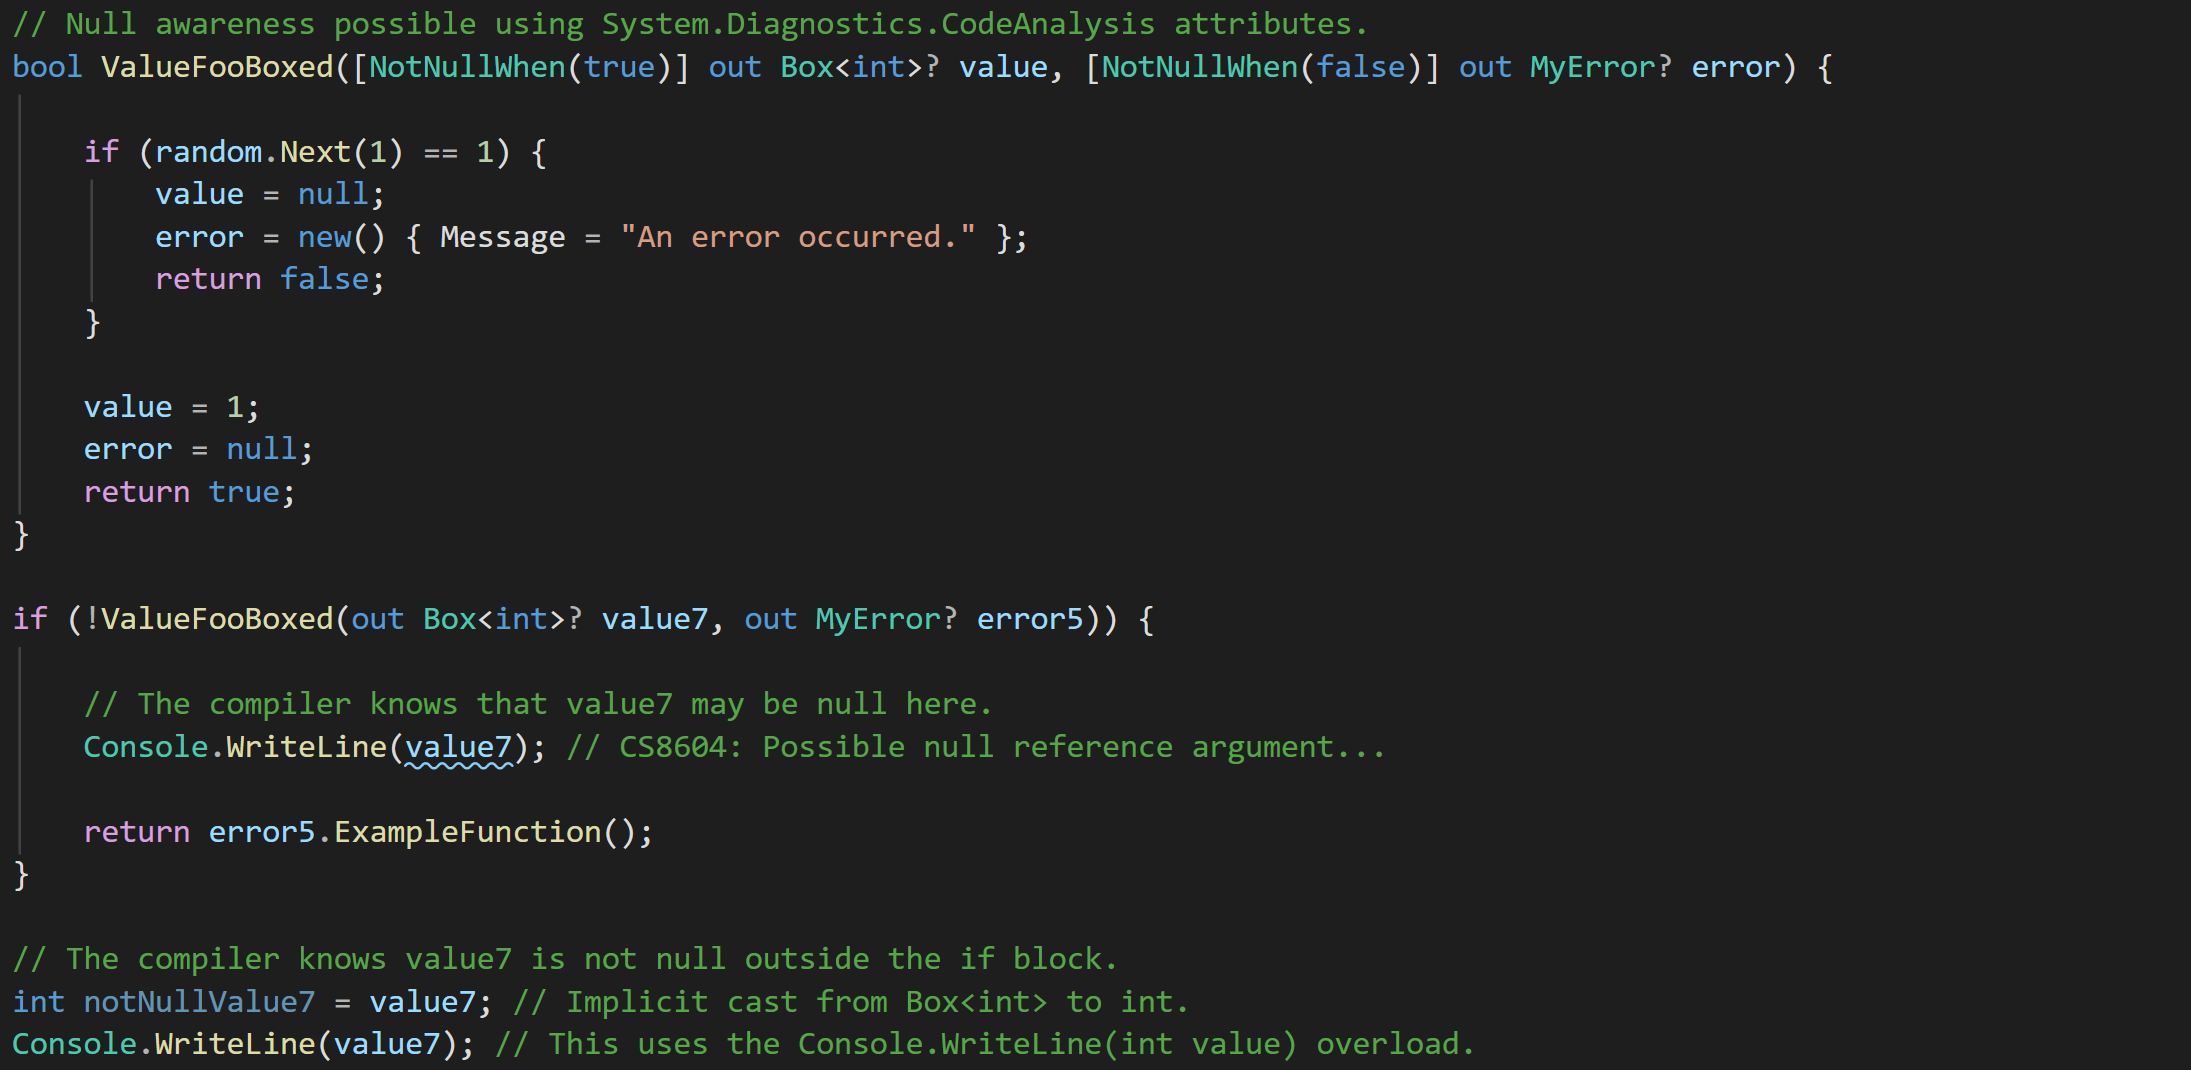
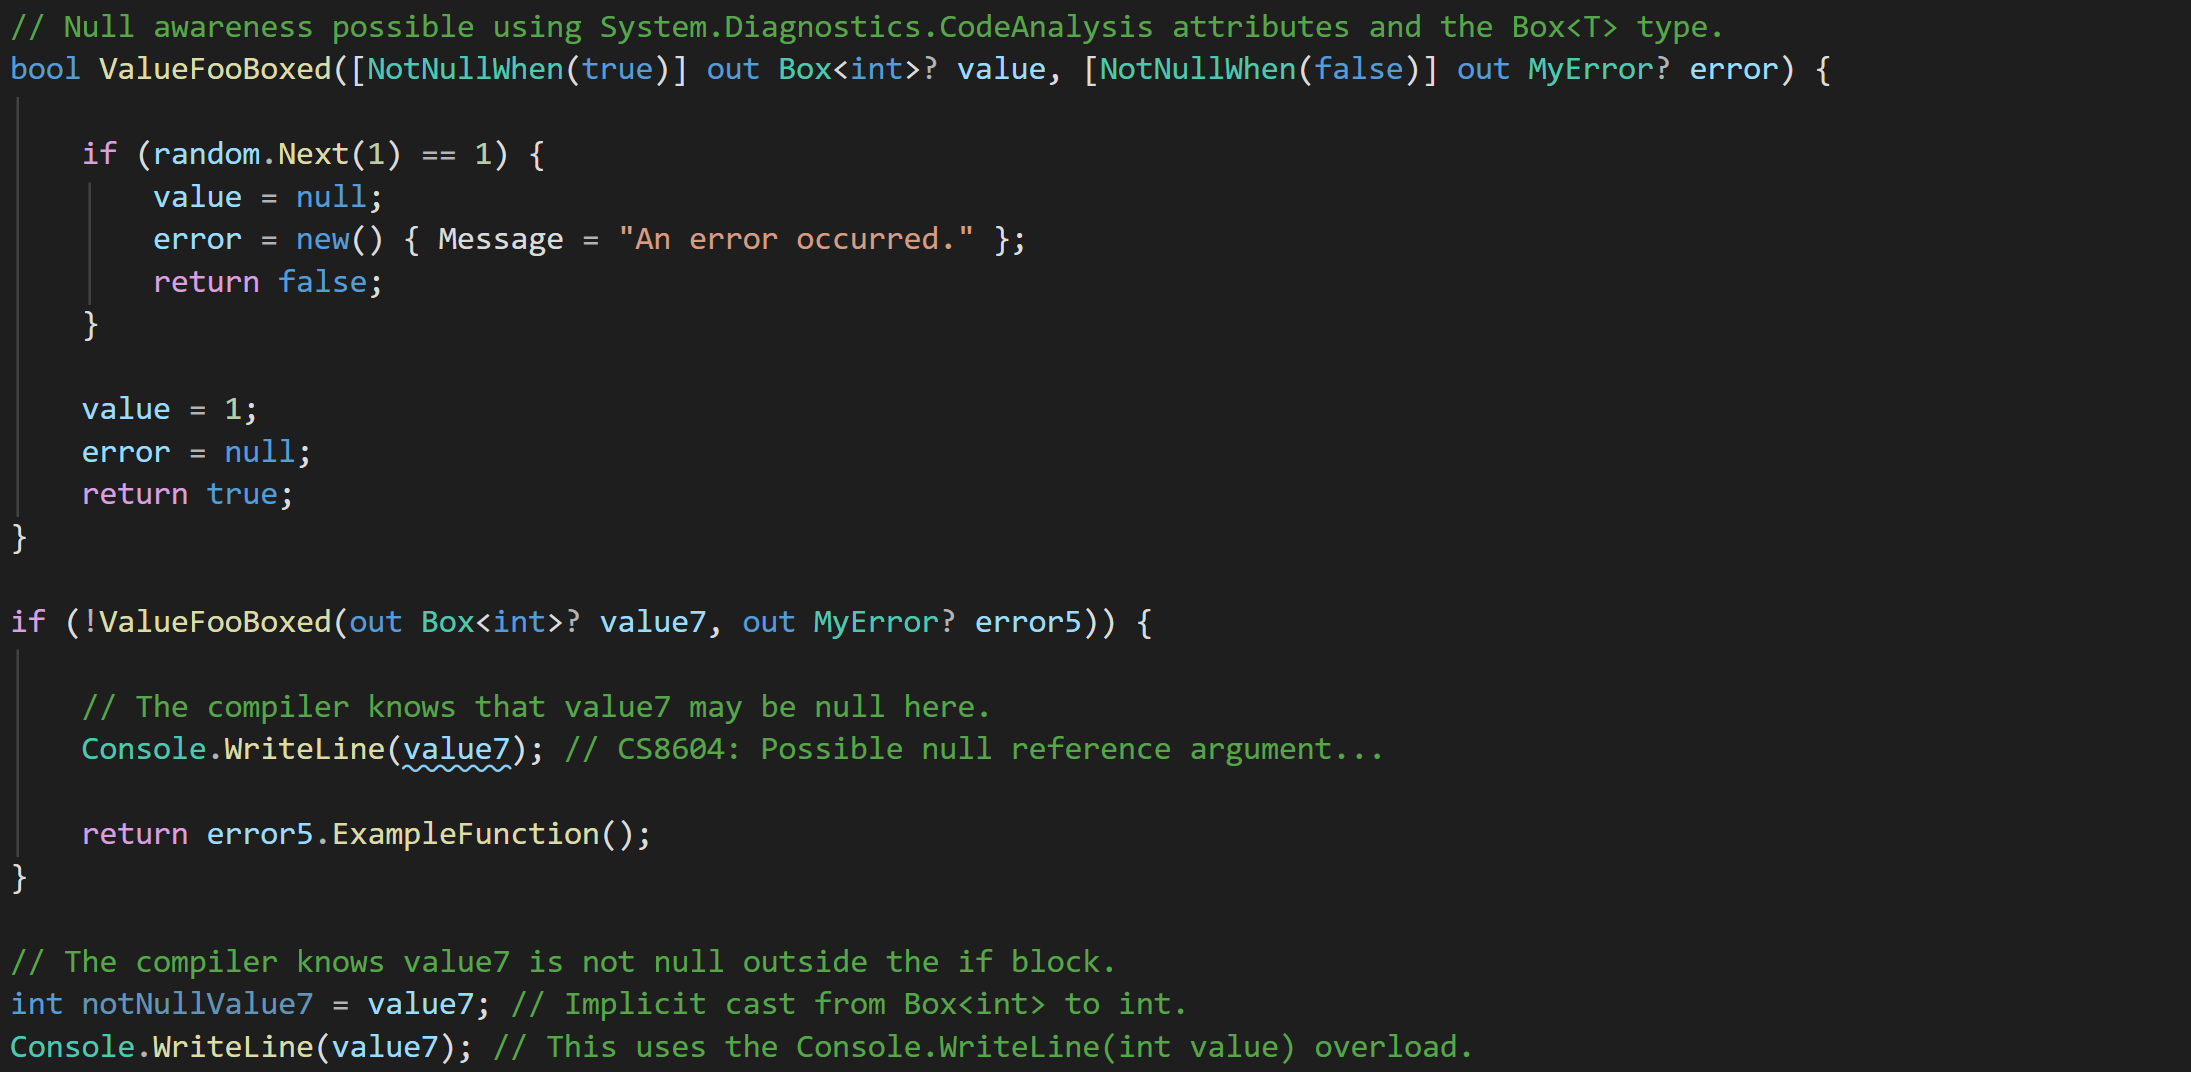
readme and example changes

diff --git a/AsyncTryResult/Examples/Program.cs b/AsyncTryResult/Examples/Program.cs
@@ -183,7 +183,7 @@ Console.WriteLine(result6.Value); // Box<int> is implicitly cast to int.
 //    Synchronous example with boxed value types.                             //
 ////////////////////////////////////////////////////////////////////////////////
 
-// Null awareness possible using System.Diagnostics.CodeAnalysis attributes.
+// Null awareness possible using System.Diagnostics.CodeAnalysis attributes and the Box<T> type.
 bool ValueFooBoxed([NotNullWhen(true)] out Box<int>? value, [NotNullWhen(false)] out MyError? error) {
 
 	if (random.Next(1) == 1) {

diff --git a/README.md b/README.md
@@ -2,21 +2,21 @@
 A lightweight library providing out-variable-like functionality for async methods in C#.
 
 
-## Built-in Functionality and Basic Example
+## Built-in Functionality and Example
 
-Using the `[NotNullWhen]` attribute from `System.Diagnostics.CodeAnalysis` it is possible to inform the compiler that out parameters of a method you define will not be null depending on the return value. This is shown below.
+Using the `[NotNullWhen]` attribute from `System.Diagnostics.CodeAnalysis` it is possible to inform the compiler that the out parameters of a method will not be null depending on the return value. This is shown below.
 
 ![An example of what is already possible in C# using the NotNullWhen attribute from System.Diagnostics.CodeAnalysis](ReadMeImages/image-1.png)
 
-Unfortunately, this is not possible for asynchronous methods because out parameters on async methods are not supported in C#. This library provides the `AsyncTryResult<TValue, TError>` (and several other similar ones) to fill this gap. Using these types you can write concise error handling code that is null-checked by the compiler.
+Unfortunately, this is not possible for asynchronous methods because out parameters on async methods are not supported in C#. This library provides the `AsyncTryResult<TValue, TError>` and `AsyncTryValueResult<TValue, TError>` to fill this gap. Using these types you can write concise error handling code that is null-checked by the compiler.
 
-![An example of how the AsyncTryResult<TValue, TError> can provide similar functionality to asynchronous methods.](ReadMeImages/image-2.png)
+![An example of how the AsyncTryResult<TValue, TError> can provide similar functionality for asynchronous methods.](ReadMeImages/image-2.png)
 
 ## But Why *This* Result Type
 A vast host of result type libraries are available in C#, each of which has a slightly different primary focus and feature set. Some focus on ASP.NET compatibility and out of the box conversions to HTTP results, some add discriminated-union-like functionality, and some provide more functional features and allow the fluent chaining of many operations.
 
 AsyncTaskResult is optimized for the following:
-- Very small and simple to understand (200 LOC including whitespace).
+- Very small and simple to understand (73 LOC excluding comments and whitespace).
 - Does not provide opinionated errors. You are required to bring your own.
 - Error handling that takes advantage of the compiler's null-checking.
 - Extremely concise error handling when you only care if an operation was a success or failure.
@@ -26,7 +26,7 @@ AsyncTaskResult is optimized for the following:
 
 ## Value Type Weirdness
 
-*I am not a CLR expert. I believe the following to be a reasonable explanation but feel free to correct me.*
+*I am not a CLR expert. I believe the following to be a reasonable explanation, but feel free to correct me.*
 
 C# handles nullable value types differently than nullable reference types. Instead of tracking the nullability of reference types with compile time static analysis, nullable value types are syntactic sugar for `System.Nullable<T>`. The unfortunate side effect of this is that the `System.Diagnostics.CodeAnalysis` attributes – such as `[NotNullWhen]`, which can be used to narrow nullable reference types at compile time, do not work with nullable value types. Some problematic examples caused by this are shown below.
 
@@ -34,17 +34,17 @@ In the first example, `ValueFoo()` uses a `[NotNullWhen(true)]` attribute to ind
 
 ![An example of the shortcomings of the C# compiler's null-checking of nullable value types.](ReadMeImages/image-4.png)
 
-The second example is more dangerous and is the reason why `TValue` and `TError` are constrained to reference types.
+The second example is more dangerous and is the reason why `TValue` and `TError` are constrained to reference types in `AsyncTryResult<int, MyError>`.
 
-In this example, `ValueFooAsync2()` returns a `UnrestrictedAsyncTryResult<int, MyError>` – a type created specifically for this example. This object has properties `TError? Error`, `TValue? Value`, `bool IsSuccess`, and `bool IsFailure`. The latter two properties are decorated with `[MemberNotNullWhen] attributes` indicating that the `Value` property is not null when `IsSuccess` is true, et cetera.
+In this example, `ValueFooAsyncUnrestricted()` returns a `UnrestrictedAsyncTryResult<int, MyError>` – a type created specifically for this example. This object has properties `TError? Error`, `TValue? Value`, `bool IsSuccess`, and `bool IsFailure`. The latter two properties are decorated with `[MemberNotNullWhen] attributes` indicating that the `Value` property is not null when `IsSuccess` is true, et cetera.
 
-As shown in the code below, this works for the property `Error`, which is a reference type, and unchecked access to `Error` results in a compile time warning. In contrast, unchecked access to `Value`, which is a value type, does not yield any warning. Even more concerningly, if `result4.Value` is accessed while it is null it silently fails and evaluates to 0. No `NullReferenceException` is raised.
+As shown in the code below, this works for the property `Error`, which is a reference type, and unchecked access to `Error` results in a compile time warning. In contrast, unchecked access to `Value`, which is a value type, does not yield any warning. Even more concerningly, if `result5.Value` is accessed while it is null, it silently fails and evaluates to 0. No `NullReferenceException` is raised.
 
 ![A second example of the shortcomings of the C# compiler's null-checking of nullable value types.](ReadMeImages/image-5.png)
 
 ### Value Type Solution
 
-To manage this difference, this library provides the `AsyncTryValueResult<TValue, TError>` and `AsyncTryValueResult<TValue>` types. These types restrict `TValue` to value types and wrap the value in a simple `Box<T>` reference type. The `Box<T>` defines implicit operators for converting to and from type `T` to allow for easy conversion.
+To manage this difference, this library provides the `AsyncTryValueResult<TValue, TError>` type. This type restrict `TValue` to value types and wrap the value in a simple `Box<T>` reference type. The `Box<T>` defines implicit casts for converting to and from type `T` to allow for easy conversion. An example using `AsyncTryValueResult<TValue, TError>` is shown below.
 
 ![An example of the usage of the AsyncTryValueResult type and how it solves the aforementioned value type null-checking issues.](ReadMeImages/image-6.png)
 
@@ -52,6 +52,6 @@ If desired, it is also possible wrap the out parameters of a synchronous method 
 
 ![An example of how the Box type can be used with synchronous methods to improve value type null-checking.](ReadMeImages/image-7.png)
 
-No alternative type is provided to support value types for `TError`. This choice was made because it is expected that most users will use strings or custom error types as `TError`, both of which are reference types. In addition, doing so would require three more permutations of the result types which felt clunky.
+No alternative type is provided to support value types for `TError`. This choice was made because it is expected that most users will use strings or classes/records as `TError`, both of which are reference types.
 
-*It's a bit clunky that I need to have separate types for reference and value types, but if Microsoft can have `Task<>` and `ValueTask<>` then I can do this. I could have boxed everything and just had one set of result types but I am afraid that dealing with `Box<T>` will be awkward in some situations; implicit casts can only take you so far in my experience. It would be ideal of C# treated nullable reference and value types the same, but I assume doing so would require substantial breaking changes. Perhaps its better we don't have ".NET Core 2: Electric Boogaloo".*
+*It's a bit clunky that I need to have separate types for reference and value types, but if Microsoft can have `Task<>` and `ValueTask<>` then I can do this. I could have made `AsyncTryResult` box its values too and just had one result type, but I am afraid that dealing with `Box<T>` will be awkward in some situations; implicit casts can only take you so far in my experience. It would be ideal if C# treated nullable reference and value types the same, but I assume doing so would require substantial breaking changes. Perhaps its better we don't have ".NET Core 2: Electric Boogaloo".*